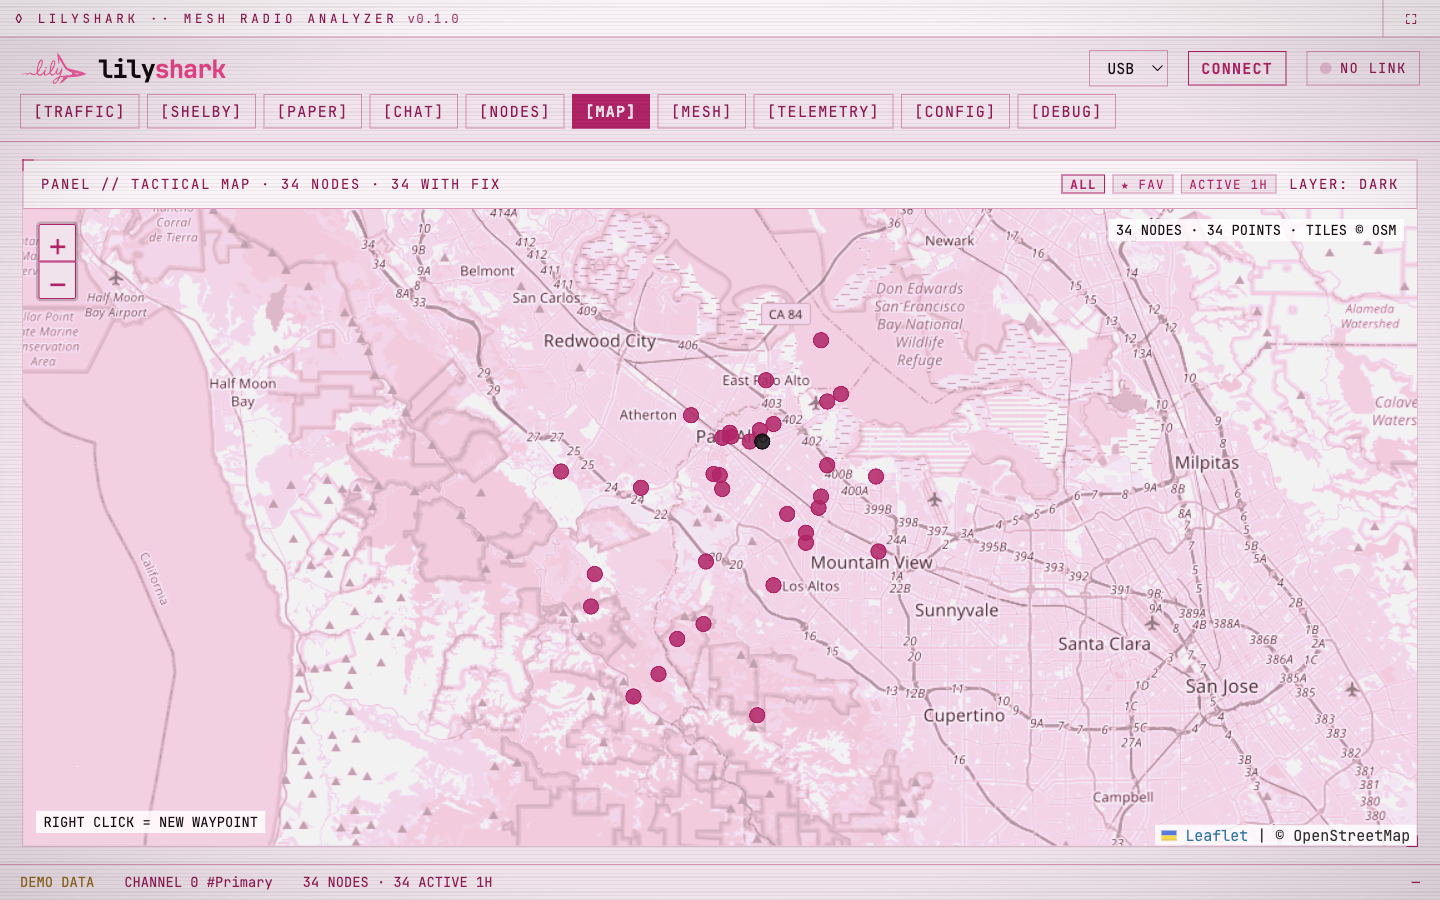
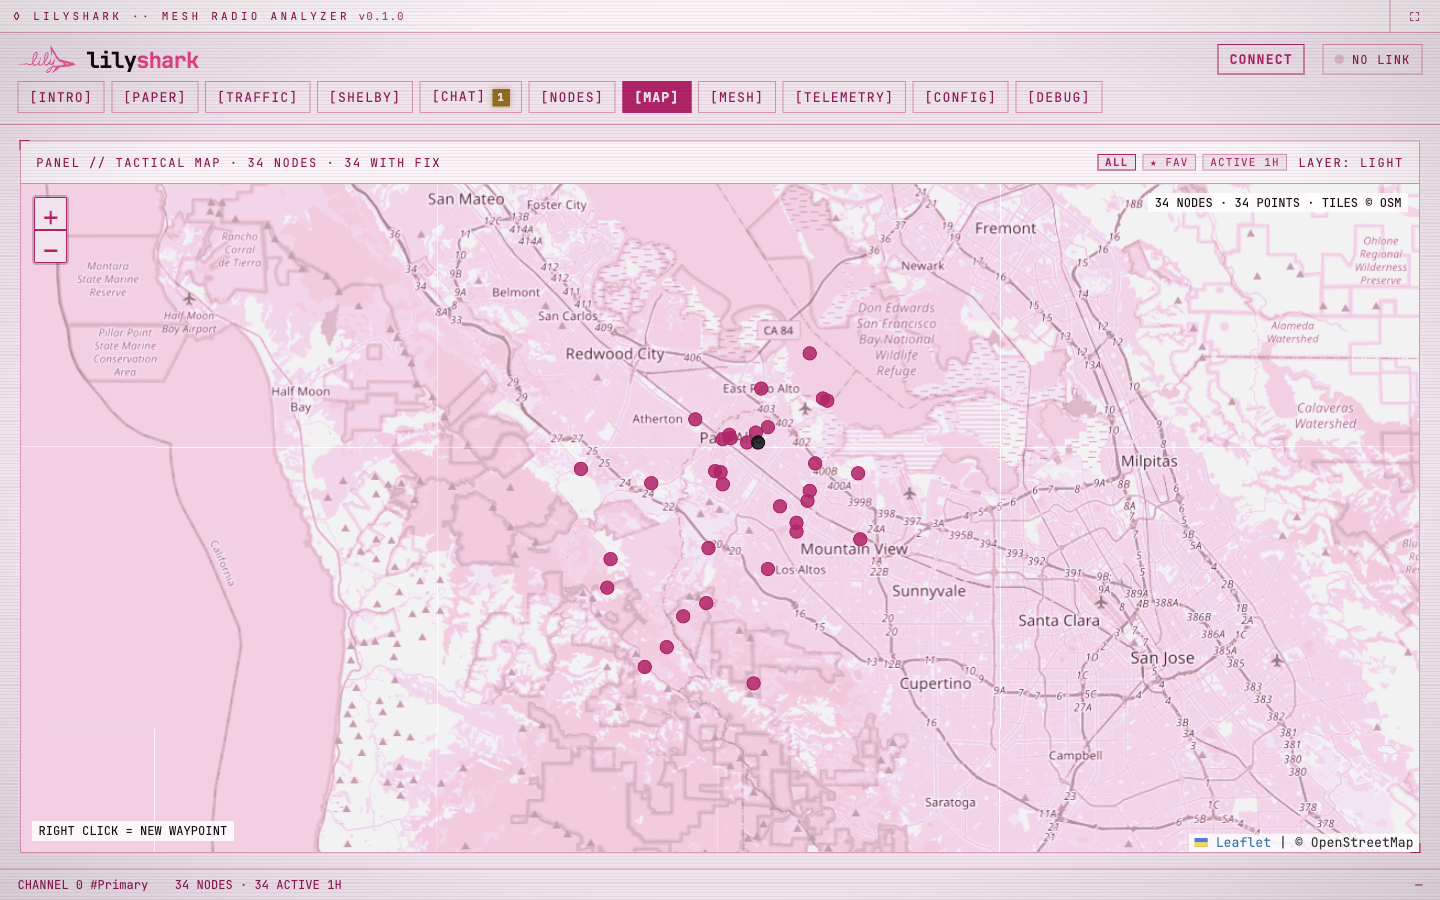
README web-app screenshots: current desktop views only
All four are retaken from the live deployment at 1440x900: the INTRO
device showcase replaces the phone screenshot, and TRAFFIC now shows
live mode with the decoded pointer and its SHLB bytes in the hex pane.

Claude-Session: https://claude.ai/code/session_01EThqm1k3JQAiW5hi5ypQ2o

Changed region(s): [[0.0, 0.0, 1.0, 0.9956], [0.0938, 0.6222, 0.125, 0.6844], [0.0312, 0.4667, 0.0625, 0.4978]]

diff --git a/README.md b/README.md
@@ -38,20 +38,20 @@ Try it without a radio: open [lilyshark.com](https://lilyshark.com), press **SAM
 
 <table>
   <tr>
-    <td width="50%"><img src="design/previews/webapp-traffic.png" alt="TRAFFIC screen: .lscap frame list with RF metadata and a decoded Shelby pointer"></td>
-    <td width="50%"><img src="design/previews/webapp-shelby.png" alt="SHELBY screen: the off-grid pointer design with measured airtime math"></td>
+    <td width="50%"><img src="design/previews/webapp-intro.png" alt="INTRO: the T-Deck with real firmware screens, scroll-driven"></td>
+    <td width="50%"><img src="design/previews/webapp-traffic.png" alt="TRAFFIC: live frame list with RF metadata and a decoded Shelby pointer"></td>
   </tr>
   <tr>
-    <td align="center"><sub>TRAFFIC — the analyzer, frame 9 carrying a Shelby pointer</sub></td>
+    <td align="center"><sub>INTRO — the device, cycling all 38 real firmware screens</sub></td>
+    <td align="center"><sub>TRAFFIC — live frames streaming, frame 9 carrying a Shelby pointer</sub></td>
+  </tr>
+  <tr>
+    <td><img src="design/previews/webapp-shelby.png" alt="SHELBY: the off-grid pointer design with measured airtime math"></td>
+    <td><img src="design/previews/webapp-map.png" alt="MAP: mesh nodes across Palo Alto"></td>
+  </tr>
+  <tr>
     <td align="center"><sub>SHELBY — why an 82-byte pointer, with airtime measured from the capture</sub></td>
-  </tr>
-  <tr>
-    <td><img src="design/previews/webapp-map.png" alt="MAP screen: mesh nodes across Palo Alto"></td>
-    <td><img src="design/previews/webapp-mobile.png" alt="The analyzer on a phone with the hamburger nav"></td>
-  </tr>
-  <tr>
     <td align="center"><sub>MAP — the demo mesh across Palo Alto</sub></td>
-    <td align="center"><sub>The same instrument on a phone</sub></td>
   </tr>
 </table>
 
